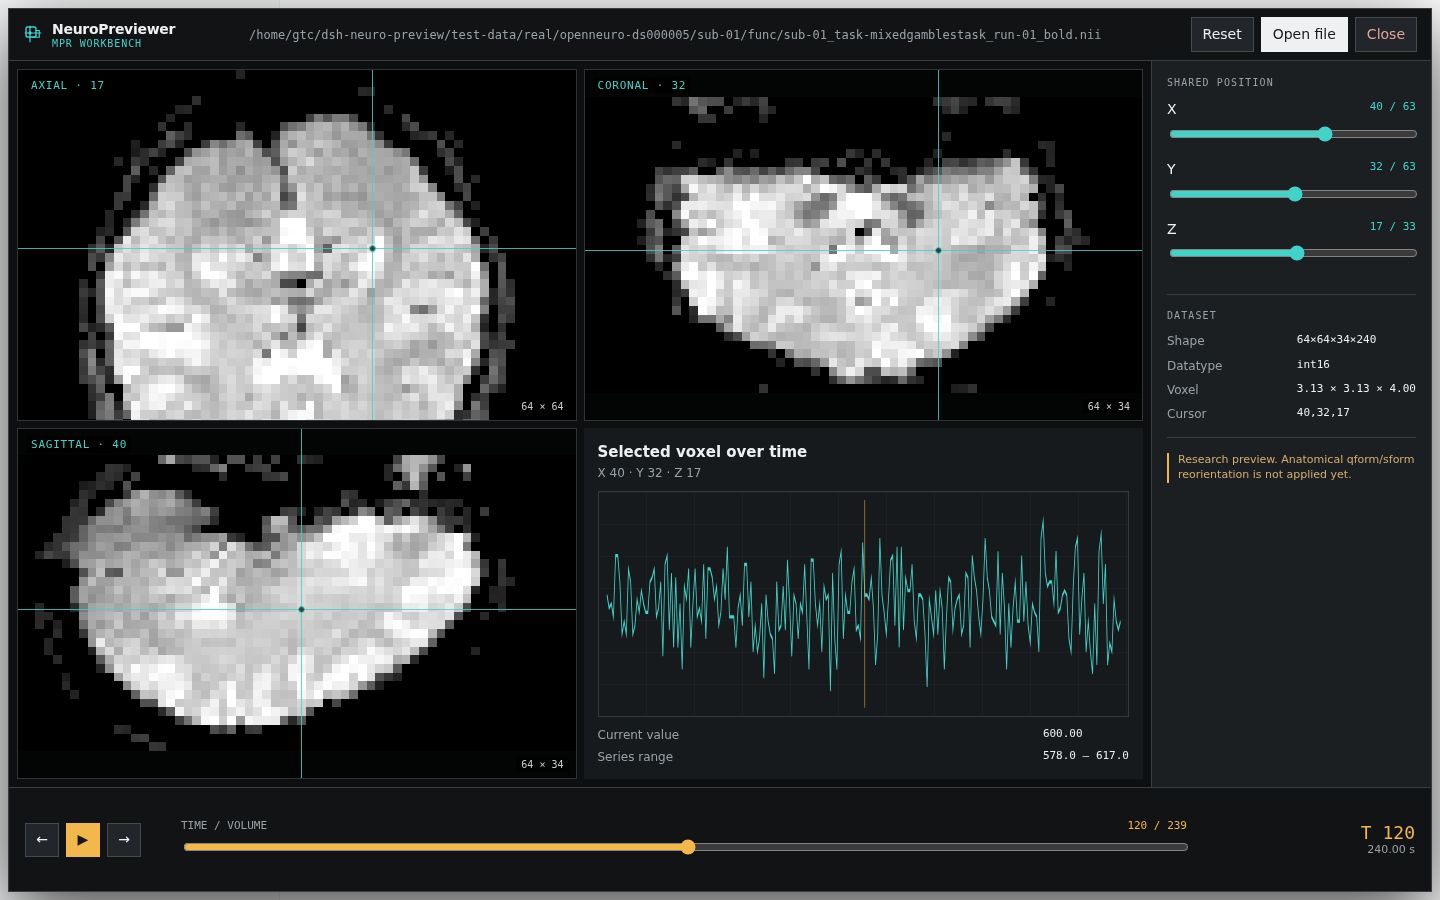
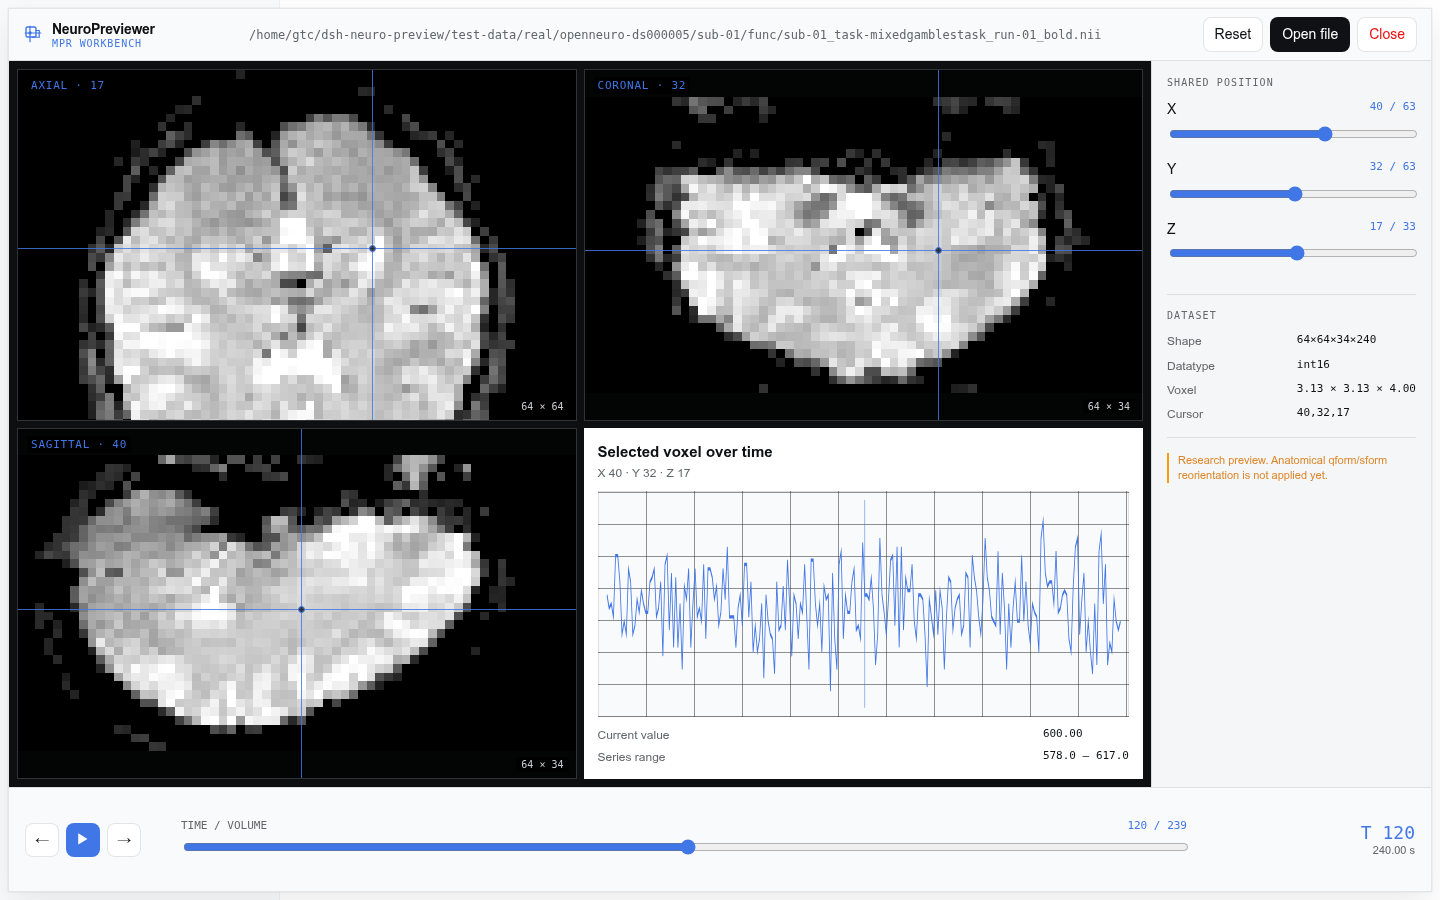
fix: persist DSH demo and match host theme

diff --git a/src/client/workbench.tsx b/src/client/workbench.tsx
@@ -8,6 +8,7 @@ const workbenchCss = `
 .np-shell *{box-sizing:border-box}.np-shell button,.np-shell input{font:inherit}.np-top{display:grid;grid-template-columns:210px minmax(0,1fr) auto;align-items:center;gap:16px;padding:0 14px;background:#111315;border-bottom:1px solid #383d41}.np-brand{font-weight:680;letter-spacing:-.02em}.np-brand small{display:block;color:#42d3c8;font:10px ui-monospace,SFMono-Regular,monospace;letter-spacing:.09em}.np-path{overflow:hidden;text-overflow:ellipsis;white-space:nowrap;color:#9ba2a6;font:12px ui-monospace,SFMono-Regular,monospace}.np-actions{display:flex;gap:7px}.np-button{border:1px solid #454a4e;background:#22262a;color:#eef0f1;padding:7px 11px;cursor:pointer}.np-button:hover{background:#2b3034}.np-button-primary{background:#eef0f1;color:#151719;border-color:#eef0f1}.np-button-danger{color:#e1a39e}.np-main{min-height:0;display:grid;grid-template-columns:minmax(620px,1fr) 280px;overflow:hidden}.np-mpr{min-height:0;padding:8px;display:grid;grid-template-columns:1fr 1fr;grid-template-rows:minmax(0,1fr) minmax(0,1fr);gap:7px;background:#0d0f10}.np-plane{position:relative;min-width:0;min-height:0;display:grid;place-items:center;background:#030404;border:1px solid #2f3437;overflow:hidden;cursor:crosshair}.np-plane canvas{display:block;max-width:100%;max-height:100%;width:100%;height:100%;object-fit:contain;image-rendering:pixelated}.np-plane-label{position:absolute;top:7px;left:9px;color:#42d3c8;font:11px ui-monospace,SFMono-Regular,monospace;letter-spacing:.07em;text-transform:uppercase;background:#0009;padding:2px 4px}.np-plane-meta{position:absolute;right:7px;bottom:6px;color:#c9cdcf;background:#000a;padding:2px 5px;font:10px ui-monospace,SFMono-Regular,monospace}.np-cross-v,.np-cross-h{position:absolute;background:#42d3c8;opacity:.84;pointer-events:none}.np-cross-v{width:1px;top:0;bottom:0}.np-cross-h{height:1px;left:0;right:0}.np-cross-dot{position:absolute;width:7px;height:7px;margin:-3px 0 0 -3px;border:1px solid #42d3c8;border-radius:50%;background:#111b;pointer-events:none}.np-analysis{min-height:0;background:#171a1c;padding:14px;display:grid;grid-template-rows:auto minmax(0,1fr) auto;gap:10px;overflow:hidden}.np-analysis h2{font-size:15px;margin:0}.np-analysis p{margin:3px 0 0;color:#9ba2a6;font-size:12px}.np-plot{min-height:0;border:1px solid #34393c;background:repeating-linear-gradient(0deg,transparent 0 31px,#23272a 32px),repeating-linear-gradient(90deg,transparent 0 47px,#23272a 48px);padding:8px}.np-plot svg{width:100%;height:100%;overflow:visible}.np-trace{fill:none;stroke:#42d3c8;stroke-width:1.6}.np-time-cursor{stroke:#f2b84b;stroke-width:1}.np-readout{display:grid;grid-template-columns:1fr auto;gap:6px;color:#9ba2a6;font-size:12px}.np-readout b{color:#eef0f1;font:11px ui-monospace,SFMono-Regular,monospace;font-weight:500}.np-side{min-height:0;overflow:auto;padding:16px 15px;background:#1c1f22;border-left:1px solid #383d41}.np-section{padding-bottom:15px;margin-bottom:15px;border-bottom:1px solid #383d41}.np-section-title{margin-bottom:12px;color:#9ba2a6;font:10px ui-monospace,SFMono-Regular,monospace;text-transform:uppercase;letter-spacing:.11em}.np-control{margin-bottom:13px}.np-control label{display:flex;justify-content:space-between;margin-bottom:5px}.np-control output{color:#42d3c8;font:11px ui-monospace,SFMono-Regular,monospace}.np-control input{width:100%;accent-color:#42d3c8}.np-kv{display:grid;grid-template-columns:1fr auto;gap:8px;color:#9ba2a6;font-size:12px}.np-kv b{color:#eef0f1;font:11px ui-monospace,SFMono-Regular,monospace;font-weight:500}.np-warning{color:#d1ad6f;border-left:2px solid #f2b84b;padding-left:9px;font-size:11px}.np-timebar{display:grid;grid-template-columns:138px minmax(0,1fr) 210px;align-items:center;gap:18px;padding:12px 16px;background:#111315;border-top:1px solid #383d41}.np-transport{display:flex;gap:7px}.np-transport button{width:34px;height:34px;padding:0;border:1px solid #454a4e;background:#22262a;color:#eef0f1;cursor:pointer}.np-transport .np-play{background:#f2b84b;color:#161719;border-color:#f2b84b}.np-time label{display:flex;justify-content:space-between;margin-bottom:5px;color:#9ba2a6;font:11px ui-monospace,SFMono-Regular,monospace}.np-time output{color:#f2b84b}.np-time input{width:100%;accent-color:#f2b84b}.np-time-value{text-align:right;color:#9ba2a6;font-size:11px}.np-time-value strong{display:block;color:#f2b84b;font:18px ui-monospace,SFMono-Regular,monospace}.np-loading{position:absolute;top:64px;right:18px;z-index:3;background:#111d;border:1px solid #3d4245;padding:6px 9px;color:#9ba2a6;font-size:12px}.np-dialog-backdrop{position:fixed;inset:0;z-index:90;display:grid;place-items:center;background:#080909d9;pointer-events:auto}.np-dialog{width:min(540px,calc(100vw - 40px));background:#1c1f22;border:1px solid #484d51;padding:24px;color:#eef0f1}.np-dialog h2{margin:0 0 7px;font-size:20px}.np-dialog p{margin:0 0 18px;color:#a4aaad}.np-dialog input{width:100%;padding:10px 11px;background:#111315;border:1px solid #4a5054;color:#eef0f1;font:13px ui-monospace,SFMono-Regular,monospace}.np-dialog-actions{display:flex;justify-content:flex-end;gap:8px;margin-top:16px}.np-error{margin-top:12px;color:#e4aaa5;font-size:12px}.np-trigger{display:flex;align-items:center;justify-content:center;gap:8px;min-width:40px;height:40px;padding:0 11px;border:0;background:transparent;color:var(--ds-text-secondary,#aaa);cursor:pointer}.np-trigger:hover{color:var(--ds-text-primary,#fff);background:var(--ds-bg-hover,#ffffff0c)}.np-trigger-mark{font:16px ui-monospace,SFMono-Regular,monospace;color:#42d3c8}.np-tool-open{margin-top:8px;border:1px solid currentColor;background:transparent;color:var(--ds-text-secondary,#888);padding:5px 9px;cursor:pointer}.np-tool-open:hover{color:var(--ds-text-primary,#eee)}
 .np-picker{width:min(820px,calc(100vw - 40px));height:min(620px,calc(100vh - 56px));padding:0;display:grid;grid-template-rows:auto minmax(0,1fr) auto}.np-picker-head{padding:20px 22px 14px;border-bottom:1px solid #383d41}.np-picker-title{display:flex;align-items:start;justify-content:space-between;gap:16px}.np-picker h2{margin:0 0 4px}.np-picker-sub{color:#9ba2a6;font-size:12px}.np-picker-path{margin-top:12px;padding:8px 10px;background:#111315;border:1px solid #34393c;overflow:hidden;text-overflow:ellipsis;white-space:nowrap;color:#c7ccce;font:12px ui-monospace,SFMono-Regular,monospace}.np-picker-body{min-height:0;overflow:auto;padding:10px 12px;background:#151719}.np-picker-row{width:100%;min-height:46px;display:grid;grid-template-columns:28px minmax(0,1fr) auto;align-items:center;gap:9px;padding:7px 10px;border:1px solid transparent;background:transparent;color:#eef0f1;text-align:left;cursor:pointer}.np-picker-row:hover{background:#202427}.np-picker-row-selected{background:#24302f;border-color:#42d3c8}.np-picker-mark{color:#42d3c8;font:14px ui-monospace,SFMono-Regular,monospace}.np-picker-name{overflow:hidden;text-overflow:ellipsis;white-space:nowrap}.np-picker-detail{display:block;color:#858d91;font:10px ui-monospace,SFMono-Regular,monospace;overflow:hidden;text-overflow:ellipsis}.np-picker-size{color:#858d91;font:11px ui-monospace,SFMono-Regular,monospace}.np-picker-empty{height:100%;min-height:220px;display:grid;place-items:center;text-align:center;color:#9ba2a6}.np-picker-empty strong{display:block;color:#eef0f1;margin-bottom:5px}.np-picker-foot{padding:12px 16px;border-top:1px solid #383d41;background:#1c1f22}.np-picker-foot-main{display:flex;align-items:center;justify-content:space-between;gap:12px}.np-picker-foot-actions{display:flex;gap:8px}.np-advanced{margin-top:12px;padding-top:12px;border-top:1px solid #34393c;display:grid;grid-template-columns:minmax(0,1fr) auto;gap:8px}.np-advanced input{width:100%;padding:8px 10px;background:#111315;border:1px solid #4a5054;color:#eef0f1;font:12px ui-monospace,SFMono-Regular,monospace}.np-link-button{border:0;background:transparent;color:#9ba2a6;padding:6px 0;cursor:pointer;text-decoration:underline;text-underline-offset:3px}.np-link-button:hover{color:#eef0f1}.np-workspaces{display:grid;gap:7px}.np-workspace-row{grid-template-columns:28px minmax(0,1fr)}
 .np-picker-anchor{position:fixed;z-index:90;left:292px;top:72px;pointer-events:none}.np-picker-anchor .np-picker{pointer-events:auto}.np-picker{width:min(590px,calc(100vw - 320px));height:min(560px,calc(100vh - 100px));padding:0;box-shadow:0 18px 48px #0008}.np-picker-body{padding:8px}.np-tree-row{min-height:38px;padding-top:4px;padding-bottom:4px}.np-tree-chevron{width:18px;height:24px;border:0;background:transparent;color:#9ba2a6;padding:0;cursor:pointer}.np-tree-chevron:hover{color:#eef0f1}.np-tree-root{border-bottom:1px solid #303538;margin-bottom:4px}.np-tree-loading{color:#9ba2a6;padding:7px 10px;font-size:12px}.np-logo{width:20px;height:20px;display:block;color:#42d3c8;flex:none}.np-brand{display:flex;align-items:center;gap:9px}.np-brand-copy{min-width:0}.np-trigger{width:100%;height:38px;border:1px solid transparent;border-radius:10px;justify-content:flex-start;padding:0 12px;font-weight:500}.np-trigger:hover{border-color:var(--dsw-alias-border-l2,#ffffff18)}[data-neuro-previewer-top-entry]{flex:none;margin:0 2px 8px}[data-neuro-previewer-top-entry] .np-trigger{color:var(--dsw-alias-label-primary,var(--ds-text-primary,#eee))}[data-neuro-previewer-top-entry] .np-trigger:hover{background:var(--dsw-alias-interactive-bg-hover,#ffffff0c)}
+.np-shell,.np-dialog{font-family:var(--dsw-font-family,ui-sans-serif,system-ui,sans-serif);color:var(--dsw-alias-label-primary,#0f1115)}.np-shell{background:var(--dsw-alias-bg-layer-1,#fff);border-color:var(--dsw-alias-border-l2,#0000001a);box-shadow:var(--dsw-shadow-lv3,0 12px 32px #0002)}.np-top,.np-timebar{background:var(--dsw-specific-sidebar-fill,#f9fafb);border-color:var(--dsw-alias-border-l2,#0000001a)}.np-brand small,.np-logo,.np-plane-label,.np-control output{color:var(--dsw-alias-state-business-primary,#4176e6)}.np-path,.np-analysis p,.np-readout,.np-kv,.np-time label,.np-time-value,.np-picker-sub,.np-picker-size,.np-picker-detail,.np-tree-loading,.np-tree-chevron,.np-section-title{color:var(--dsw-alias-label-secondary,#61666b)}.np-readout b,.np-kv b{color:var(--dsw-alias-label-primary,#0f1115)}.np-button{background:var(--dsw-alias-button-elevated-fill,#fff);color:var(--dsw-alias-label-primary,#0f1115);border-color:var(--dsw-alias-border-l2,#0000001a);border-radius:8px}.np-button:hover{background:var(--dsw-alias-button-floating-hover,#f1f3f5)}.np-button-primary{background:var(--dsw-alias-button-primary-fill,#0f1115);color:var(--dsw-alias-label-primary-inverted,#fff);border-color:transparent}.np-button-primary:hover{background:var(--dsw-alias-button-primary-hover,#43454a)}.np-button-danger,.np-error{color:var(--dsw-alias-state-error-primary,#ec1313)}.np-main{background:var(--dsw-alias-bg-layer-1,#fff)}.np-analysis{background:var(--dsw-alias-bg-layer-1,#fff)}.np-side{background:var(--dsw-alias-bg-module-platform,#f5f6f7);border-color:var(--dsw-alias-border-l2,#0000001a)}.np-section,.np-plot{border-color:var(--dsw-alias-border-l2,#0000001a)}.np-plot{background-color:var(--dsw-alias-markdown-code-block,#f9fafb)}.np-trace,.np-cross-v,.np-cross-h{stroke:var(--dsw-alias-state-business-primary,#4176e6);background:var(--dsw-alias-state-business-primary,#4176e6)}.np-cross-dot{border-color:var(--dsw-alias-state-business-primary,#4176e6)}.np-time-cursor{stroke:var(--dsw-alias-state-business-primary,#4176e6)}.np-time output,.np-time-value strong{color:var(--dsw-alias-state-business-primary,#4176e6)}.np-time input,.np-control input{accent-color:var(--dsw-alias-state-business-primary,#4176e6)}.np-transport button{background:var(--dsw-alias-button-elevated-fill,#fff);color:var(--dsw-alias-label-primary,#0f1115);border-color:var(--dsw-alias-border-l2,#0000001a);border-radius:8px}.np-transport .np-play{background:var(--dsw-alias-button-info-fill,#4176e6);color:var(--dsw-alias-label-primary-inverted,#fff);border-color:transparent}.np-warning{color:var(--dsw-alias-state-warn-label,#dd8629);border-color:var(--dsw-alias-state-warn-primary,#f59e0b)}.np-loading{background:var(--dsw-alias-bg-layer-2,#fff);color:var(--dsw-alias-label-secondary,#61666b);border-color:var(--dsw-alias-border-l2,#0000001a);box-shadow:var(--dsw-shadow-lv1,0 2px 4px #0001)}.np-dialog{background:var(--dsw-alias-bg-layer-2,#fff);border-color:var(--dsw-alias-border-l2,#0000001a);border-radius:12px;box-shadow:var(--dsw-shadow-lv3,0 12px 32px #0002)}.np-picker{box-shadow:var(--dsw-shadow-lv3,0 12px 32px #0002)}.np-picker-head,.np-picker-foot{background:var(--dsw-alias-bg-layer-2,#fff);border-color:var(--dsw-alias-border-l2,#0000001a)}.np-picker-body{background:var(--dsw-alias-bg-module-platform,#f5f6f7)}.np-picker-path,.np-advanced input{background:var(--dsw-specific-input-major,#fff);color:var(--dsw-alias-label-primary,#0f1115);border-color:var(--dsw-alias-border-l2,#0000001a);border-radius:8px}.np-picker-row{color:var(--dsw-alias-label-primary,#0f1115);border-radius:8px}.np-picker-row:hover{background:var(--dsw-alias-interactive-bg-hover,#2631480f)}.np-picker-row-selected{background:var(--dsw-specific-sidebar-nav-item-active-accent,#e4edfd);border-color:var(--dsw-alias-state-business-primary,#4176e6)}.np-picker-mark{color:var(--dsw-alias-state-business-primary,#4176e6)}.np-tree-root{border-color:var(--dsw-alias-border-l2,#0000001a)}.np-link-button{color:var(--dsw-alias-label-secondary,#61666b)}.np-link-button:hover,.np-tree-chevron:hover{color:var(--dsw-alias-label-primary,#0f1115)}
 @media(max-width:980px){.np-shell{inset:0}.np-main{grid-template-columns:1fr}.np-side{display:none}.np-timebar{grid-template-columns:120px 1fr}.np-time-value{display:none}.np-picker-anchor{left:66px;right:10px;top:58px}.np-picker{width:100%;height:min(520px,calc(100vh - 72px))}}
 `
 

diff --git a/README.md b/README.md
@@ -14,7 +14,7 @@
 
 ![NeuroPreviewer interactive MPR workbench](https://raw.githubusercontent.com/NeuroAIHub/NeuroPreviewer/main/design-demos/screenshots/dsh-interactive-workbench.png)
 
-> **Release status:** npm `0.1.0` is the stable static-preview release. The interactive workbench is currently `0.2.0-alpha.3` on `main` and must be installed from source. Both target DSH `0.1.0-rc.6`; DSH is still a developer preview and may make breaking changes.
+> **Release status:** npm `0.1.0` is the stable static-preview release. The interactive workbench is currently `0.2.0-alpha.4` on `main` and must be installed from source. Both target DSH `0.1.0-rc.6`; DSH is still a developer preview and may make breaking changes.
 
 ## What it does
 
@@ -22,6 +22,7 @@
 | --- | --- | --- |
 | Direct DSH viewer entry | ✅ alpha | Sits below New Session and above Workspaces in the sidebar |
 | Workspace file tree | ✅ alpha | Compact non-blocking popup; folders expand in place and preserve all ancestors |
+| DSH theme integration | ✅ alpha | Uses DSH semantic colors, borders, typography, hover states, and shadows |
 | Linked MPR views | ✅ alpha | Axial, coronal, and sagittal canvases share one voxel cursor |
 | Direct spatial navigation | ✅ alpha | Click a plane or move the X/Y/Z sliders |
 | 4D navigation | ✅ alpha | Scrub, step, or play fMRI volumes |

diff --git a/README.zh-CN.md b/README.zh-CN.md
@@ -14,7 +14,7 @@
 
 ![NeuroPreviewer 交互式 MPR 工作台](https://raw.githubusercontent.com/NeuroAIHub/NeuroPreviewer/main/design-demos/screenshots/dsh-interactive-workbench.png)
 
-> **版本状态：** npm `0.1.0` 是稳定的静态预览版本；交互工作台目前位于 `main`，版本为 `0.2.0-alpha.3`，需要从源码安装。两者均面向 DSH `0.1.0-rc.6`；DSH 仍处于开发者预览阶段，后续可能存在破坏性变更。
+> **版本状态：** npm `0.1.0` 是稳定的静态预览版本；交互工作台目前位于 `main`，版本为 `0.2.0-alpha.4`，需要从源码安装。两者均面向 DSH `0.1.0-rc.6`；DSH 仍处于开发者预览阶段，后续可能存在破坏性变更。
 
 ## 当前能力
 
@@ -22,6 +22,7 @@
 | --- | --- | --- |
 | DSH 直接入口 | ✅ alpha | 位于侧栏 New Session 下方、Workspaces 上方 |
 | 工作区文件树 | ✅ alpha | 非遮罩小弹窗；文件夹原位展开并保留完整上级层级 |
+| DSH 主题集成 | ✅ alpha | 使用 DSH 语义色、边框、字体、悬停状态与阴影 |
 | 联动 MPR | ✅ alpha | axial、coronal、sagittal 三个切面共享同一体素光标 |
 | 空间交互 | ✅ alpha | 点击任一切面，或移动 X/Y/Z 滑块 |
 | 4D 时间交互 | ✅ alpha | 拖动、逐帧或播放 fMRI volume |
